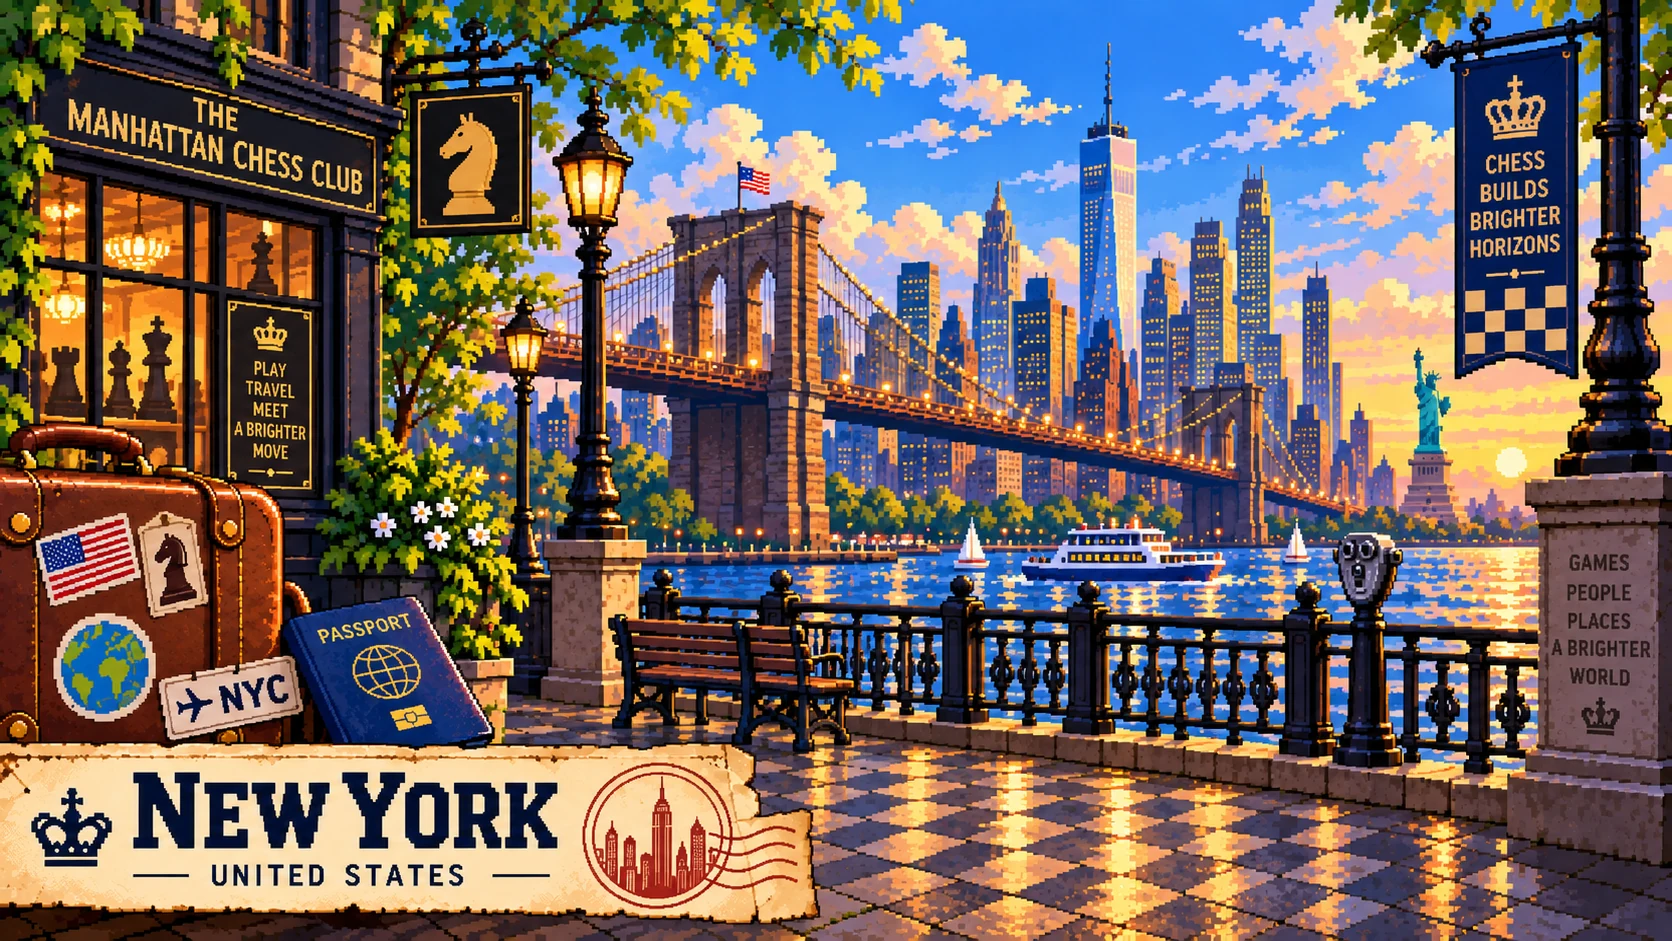
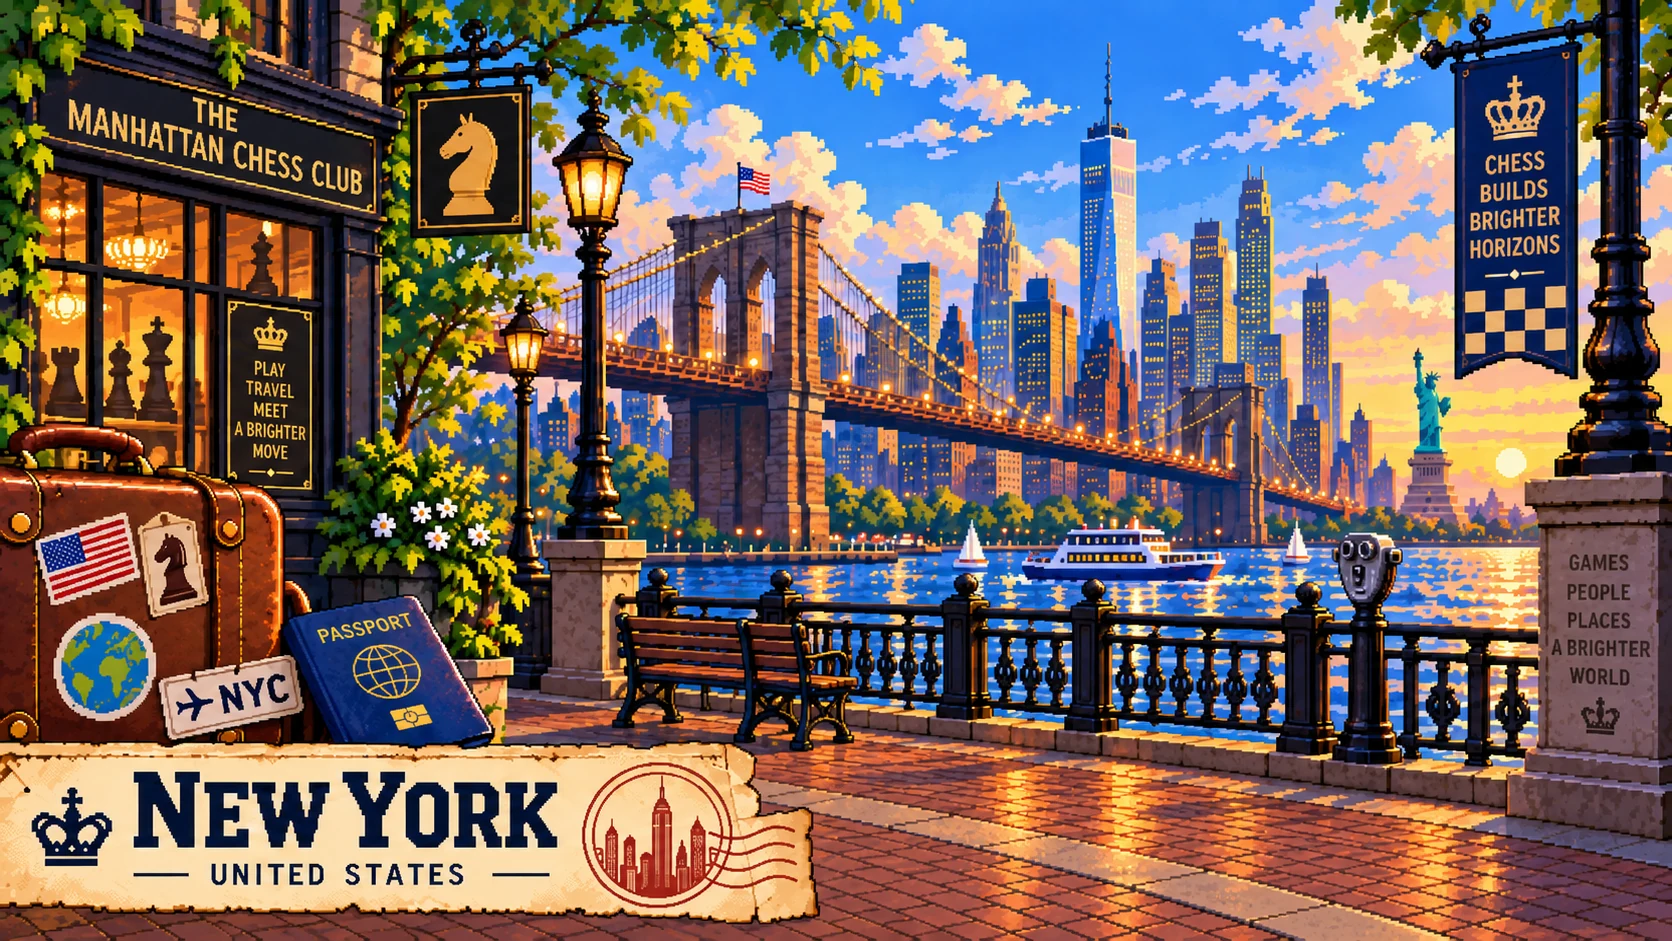
Portrait loading screens for every city; new New York card
- Sort the seven portrait loading screens into their city folders and build
  them as cities/<id>-portrait; the arrival card picks portrait or
  landscape by window shape
- Replace the New York landscape card (old file removed); the NYC postcard
  is cropped from the new one
- Short landscape: the arrival card leaves room for its "tap" line

Claude-Session: https://claude.ai/code/session_01MGYnUBnnzqhHr5zXP6UbWL

diff --git a/css/layout.css b/css/layout.css
@@ -353,3 +353,19 @@ html, body { position: fixed; inset: 0; width: 100%; height: 100%; overflow: hid
   :root[data-touch="true"] .pp-scene__dock .pp-btn--small { min-height: 26px; font-size: 14px; }
   :root[data-touch="true"] .pp-scene__dock .pp-row { gap: 3px; }
 }
+
+/* ============================================================== arrival == */
+/* The portrait loading screen on a window taller than wide: as tall as fits. */
+@media (max-aspect-ratio: 13/10) {
+  .pp-arrival img {
+    width: auto; max-width: 92vw;
+    height: min(calc(100dvh - 90px - env(safe-area-inset-top) - env(safe-area-inset-bottom)), calc(92vw * 1672 / 941));
+    border-width: 4px;
+  }
+  .pp-arrival__tap { bottom: max(3dvh, calc(env(safe-area-inset-bottom) + 10px)); }
+}
+/* Short landscape: leave room under the card for the "tap to step off" line. */
+@media (min-aspect-ratio: 13/10) and (max-height: 560px) {
+  .pp-arrival img { width: auto; height: calc(100dvh - 60px - env(safe-area-inset-bottom)); max-width: 92vw; margin-bottom: 24px; }
+  .pp-arrival__tap { bottom: max(6px, env(safe-area-inset-bottom)); }
+}

diff --git a/js/ui/screens/scene.js b/js/ui/screens/scene.js
@@ -613,7 +613,10 @@ export async function sceneScreen(app, params) {
       sfx.stamp();
       await app.overlay((close) => {
         const card = h('div.pp-arrival', { onclick: () => close() },
-          h('img', { src: `assets/cities/${clubId}.webp`, alt: isFinale ? 'Madrid' : club.city }),
+          // A phone held upright gets the portrait loading screen.
+          h('picture', null,
+            h('source', { media: '(max-aspect-ratio: 13/10)', srcset: `assets/cities/${clubId}-portrait.webp` }),
+            h('img', { src: `assets/cities/${clubId}.webp`, alt: isFinale ? 'Madrid' : club.city })),
           h('div.pp-arrival__tap', { text: `${tapWord()} to step off the plane` }));
         return card;
       });

diff --git a/tools/build_assets.py b/tools/build_assets.py
@@ -12,7 +12,7 @@ is always safe.
 What it produces:
     assets/ui/        title background, logos, journal books, world map
     assets/scenes/    every walkable scene (club gardens, floor plans, venues)
-    assets/cities/    the six-plus-one city arrival cards
+    assets/cities/    the six-plus-one city arrival cards, landscape and <id>-portrait
     assets/postcards/ one postcard front per casual venue
     assets/pieces/pixel/  12 piece sprites sliced from the piece sheet
     assets/board/     the ornate board, resampled so its 8x8 grid is square
@@ -70,13 +70,25 @@ SCENES = {
 }
 
 CITIES = {
-    'nyc': 'NYC/ChatGPT Image 14.9.2026 klo 23.14.07 (4).png',
+    'nyc': 'NYC/ChatGPT Image 17.9.2026 klo 07.31.39.png',
     'lon': 'London/ChatGPT Image 14.9.2026 klo 23.14.07 (5).png',
     'vie': 'Vienna/ChatGPT Image 14.9.2026 klo 23.14.06 (1).png',
     'ist': 'Istanbul/ChatGPT Image 14.9.2026 klo 23.14.06 (3).png',
     'che': 'Chennai/ChatGPT Image 14.9.2026 klo 23.14.06 (2).png',
     'wen': 'Wenzhou/ChatGPT Image 14.9.2026 klo 23.17.28 (1).png',
     'mad': 'Spain Madrid/ChatGPT Image 14.9.2026 klo 23.17.28 (2).png',
+}
+
+# Portrait loading screens (phone held upright), cities/<id>-portrait.
+# NYC/ also keeps an earlier portrait draft, ChatGPT Image 17.9.2026 klo 07.32.57.png.
+CITIES_PORTRAIT = {
+    'nyc': 'NYC/ChatGPT Image 17.9.2026 klo 07.43.28 (3).png',
+    'lon': 'London/ChatGPT Image 17.9.2026 klo 07.43.27 (2).png',
+    'vie': 'Vienna/ChatGPT Image 17.9.2026 klo 07.43.30 (6).png',
+    'ist': 'Istanbul/ChatGPT Image 17.9.2026 klo 07.43.28 (4).png',
+    'che': 'Chennai/ChatGPT Image 17.9.2026 klo 07.43.29 (5).png',
+    'wen': 'Wenzhou/ChatGPT Image 17.9.2026 klo 07.35.27.png',
+    'mad': 'Spain Madrid/ChatGPT Image 17.9.2026 klo 07.43.26 (1).png',
 }
 
 PIECE_SHEET = 'ChatGPT Image 14.9.2026 klo 23.20.56.png'
@@ -129,6 +141,10 @@ def build_scenes():
         img = Image.open(path).convert('RGB')
         save_webp(img, 'cities/' + name, 1672)
         sizes[name + '-card'] = (min(1672, img.width), round(img.height * min(1672, img.width) / img.width))
+    for name, rel in CITIES_PORTRAIT.items():
+        path = src(rel)
+        if path:
+            save_webp(Image.open(path).convert('RGB'), 'cities/' + name + '-portrait', 941)
     return sizes
 
 
